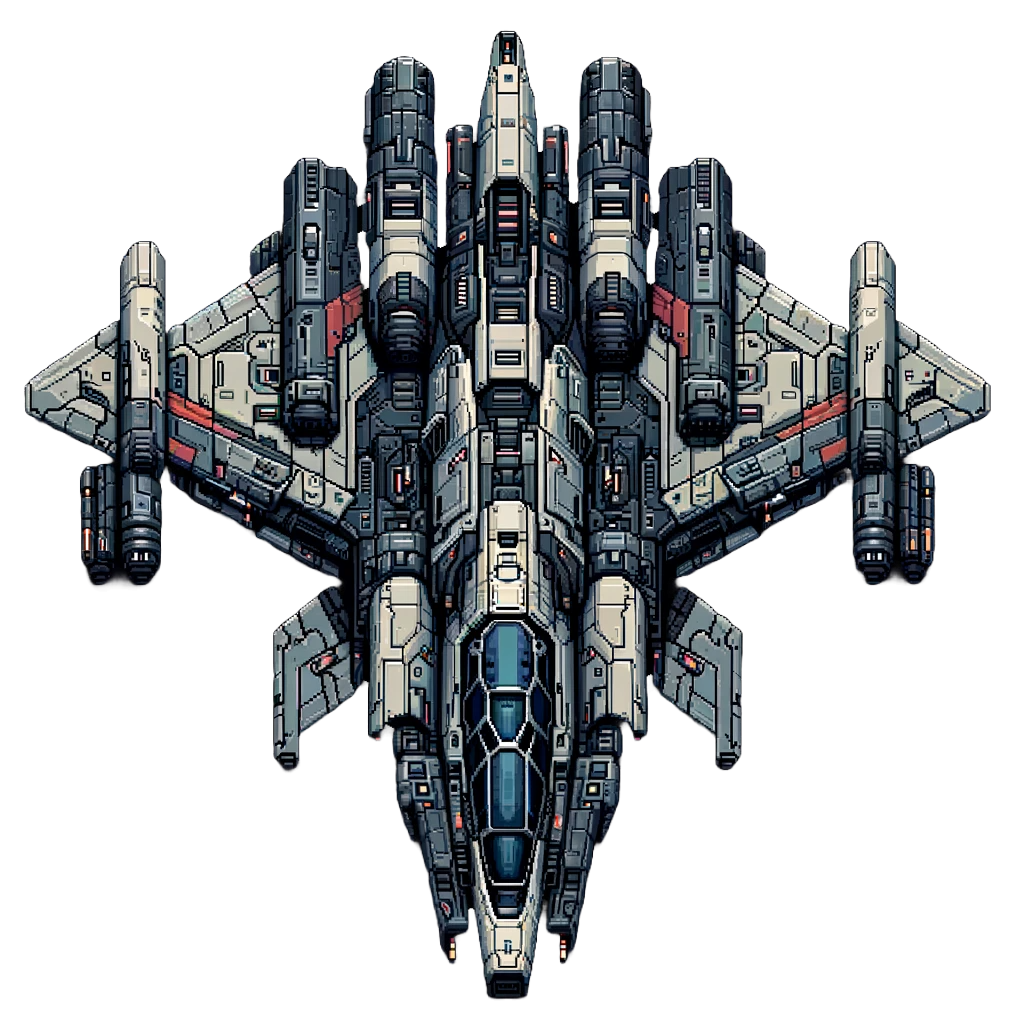
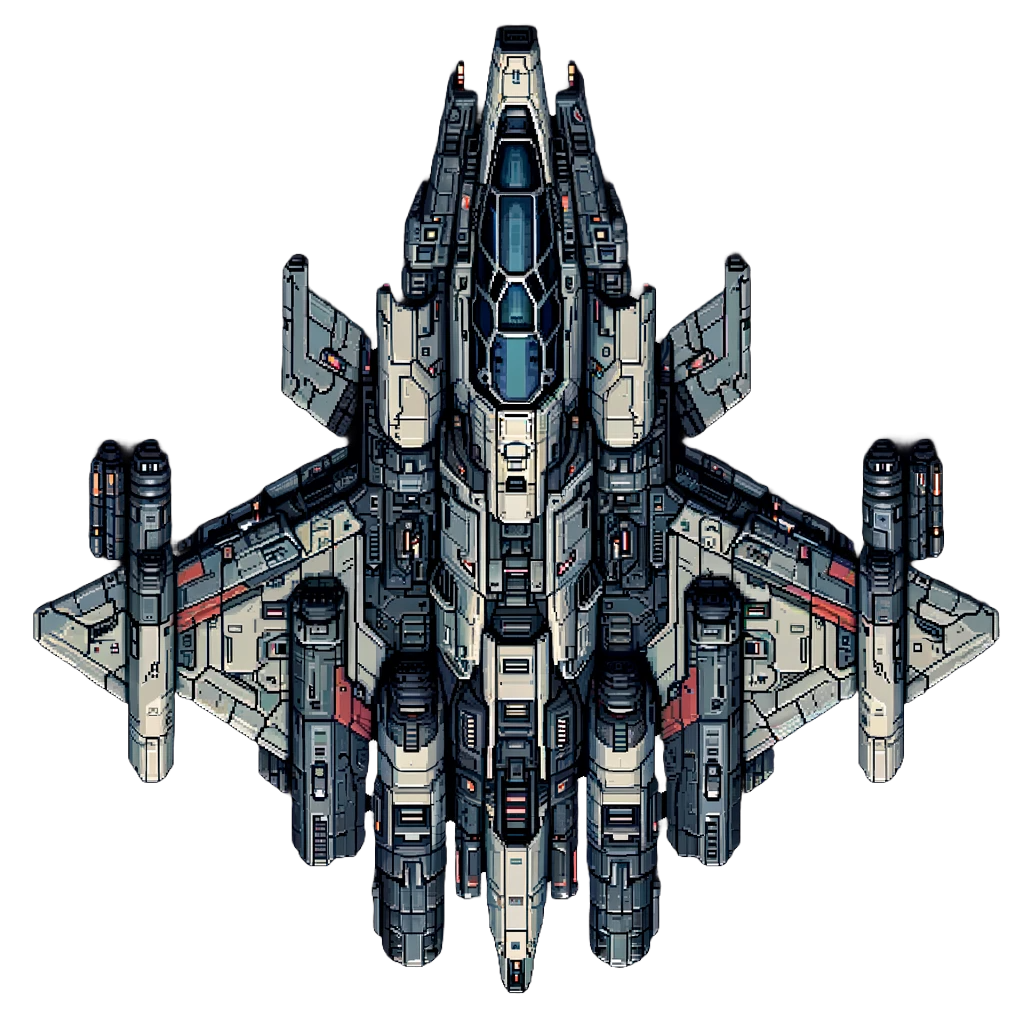
Enabled android version, added player ship orientation

diff --git a/lib/ui/solar_system.dart b/lib/ui/solar_system.dart
@@ -8,7 +8,6 @@ import 'package:solar_system/providers/space_painter_provider.dart';
 import 'package:solar_system/repository/spaceship_repository.dart';
 import 'package:solar_system/ui/painters/planet_painter.dart';
 import 'package:solar_system/ui/painters/space_painter.dart';
-import 'package:solar_system/ui/painters/spaceship_painter.dart';
 
 import '../models/spaceship_data.dart';
 
@@ -25,8 +24,6 @@ class _SolarSystemState extends State<SolarSystem> with SingleTickerProviderStat
   final networkOperations = SpaceshipNetworkOperations();
   final repository = SpaceshipRepository();
 
-  final _random = Random();
-
   late final Ticker _ticker;
 
   final TransformationController _controller = TransformationController();
@@ -36,26 +33,10 @@ class _SolarSystemState extends State<SolarSystem> with SingleTickerProviderStat
   final spaceWidth = 2000.0;
   final spaceHeight = 2000.0;
 
-  double spaceshipX = 1000.0;
-  double spaceshipY = 500.0;
-
   double _elapsed = 0.0;
 
-  final colors = <Color>[
-    const Color(0xFFff834b),
-    getRandomColor(),
-    getRandomColor(),
-    getRandomColor(),
-    getRandomColor(),
-    getRandomColor(),
-    getRandomColor(),
-    getRandomColor(),
-    getRandomColor(),
-    getRandomColor(),
-    getRandomColor(),
-    getRandomColor(),
-    getRandomColor(),
-  ];
+  SpaceshipData? playerSpaceship;
+  SpaceshipData? prevSpaceshipData;
 
   @override
   void initState() {
@@ -64,6 +45,9 @@ class _SolarSystemState extends State<SolarSystem> with SingleTickerProviderStat
     _ticker = createTicker((elapsed) {
 
       setState(() {}); // trigger a repaint
+
+      var spaceshipY = playerSpaceship?.locationY ?? 0.0;
+      var spaceshipX = playerSpaceship?.locationX ?? 0.0;
 
       if (_currentKeysPressed.isNotEmpty) {
         if (_currentKeysPressed.contains(LogicalKeyboardKey.arrowUp)) {
@@ -84,17 +68,38 @@ class _SolarSystemState extends State<SolarSystem> with SingleTickerProviderStat
       final elapsedMillis = elapsed.inMilliseconds.toDouble();
       if(elapsedMillis - _elapsed > 10) {
         _elapsed = elapsedMillis;
-        repository.updateSpaceshipLocation(spaceshipX, spaceshipY);
+        playerSpaceship = repository.updateSpaceshipLocation(spaceshipX, spaceshipY);
+
+        playerSpaceship = prevSpaceshipData != null ?
+        playerSpaceship?.copyWith(orientation: playerSpaceship?.determineOrientation(prevSpaceshipData) ?? 0.0) :
+        playerSpaceship;
+
+        prevSpaceshipData = playerSpaceship;
       }
     });
 
     _ticker.start();
 
-    repository.registerNewSpaceship();
+    repository.registerNewSpaceship()
+        .then((value) {
+          playerSpaceship = value;
+          prevSpaceshipData = value;
+        });
   }
 
   @override
   Widget build(BuildContext context) {
+
+    Widget playerSpaceshipWidget = playerSpaceship == null
+        ? Container()
+        : Positioned(
+          left: playerSpaceship!.locationX,
+          top: playerSpaceship!.locationY,
+          child: Transform.rotate(
+              angle: playerSpaceship!.orientation,
+              child: Image.asset('assets/ships/ship1.png', width: 50, height: 50)
+          ),
+        );
 
     return RawKeyboardListener(
       focusNode: _focusNode,
@@ -129,12 +134,7 @@ class _SolarSystemState extends State<SolarSystem> with SingleTickerProviderStat
             ),
           ),
 
-          // player spaceship
-          Positioned(
-            left: spaceshipX,
-            top: spaceshipY,
-            child: Image.asset('assets/ships/ship1.png', width: 50, height: 50)
-          ),
+          playerSpaceshipWidget,
 
           // other spaceships
           StreamBuilder(
@@ -151,7 +151,10 @@ class _SolarSystemState extends State<SolarSystem> with SingleTickerProviderStat
                   spaceshipWidgets.add(Positioned(
                     left: ship.locationX,
                     top: ship.locationY,
-                    child: Image.asset('assets/ships/ship${ship.shipType}.png', width: 50, height: 50)
+                    child: Transform.rotate(
+                        angle: ship.orientation,
+                        child: Image.asset('assets/ships/ship${ship.shipType}.png', width: 50, height: 50)
+                    )
                   ));
                 }
 

diff --git a/lib/repository/spaceship_repository.dart b/lib/repository/spaceship_repository.dart
@@ -18,7 +18,7 @@ class SpaceshipRepository implements ISpaceshipRepository {
 
   final spaceships = <String, SpaceshipData>{}; // <id, SpaceshipData>
 
-  Future<void> registerNewSpaceship() async {
+  Future<SpaceshipData> registerNewSpaceship() async {
 
     final randomShipType = _random.nextInt(3) + 1;
 
@@ -26,20 +26,22 @@ class SpaceshipRepository implements ISpaceshipRepository {
     playerSpaceship = SpaceshipData(
       id: id,
       name: 'Spaceship 1',
-      locationX: 200.0,
-      locationY: 200.0,
+      locationX: 500.0,
+      locationY: 1000.0,
       lastUpdated: DateTime.now().millisecondsSinceEpoch,
       shipType: randomShipType,
     );
 
-    await updateSpaceshipData(playerSpaceship);
+    await updateRemoteSpaceshipData(playerSpaceship);
 
     // populate our local map
     final snapshot = await _db.ref("spaceships").get();
     _updateLocalSpaceships(snapshot);
+
+    return playerSpaceship;
   }
 
-  Future<void> updateSpaceshipData(SpaceshipData spaceshipData) async {
+  Future<void> updateRemoteSpaceshipData(SpaceshipData spaceshipData) async {
     DatabaseReference ref = _db.ref("spaceships/${spaceshipData.id}");
     await ref.set({
       'id': spaceshipData.id,
@@ -78,26 +80,29 @@ class SpaceshipRepository implements ISpaceshipRepository {
     });
   }
 
-  void updateSpaceshipLocation(double spaceshipX, double spaceshipY) {
-    if (playerSpaceship != null) {
-      updateSpaceshipData(SpaceshipData(
-        id: playerSpaceship.id,
-        name: playerSpaceship.name,
-        locationX: spaceshipX,
-        locationY: spaceshipY,
-        lastUpdated: DateTime.now().millisecondsSinceEpoch,
-      ));
-    }
+  SpaceshipData updateSpaceshipLocation(double spaceshipX, double spaceshipY) {
+    final newData = SpaceshipData(
+      id: playerSpaceship.id,
+      name: playerSpaceship.name,
+      locationX: spaceshipX,
+      locationY: spaceshipY,
+      lastUpdated: DateTime.now().millisecondsSinceEpoch,
+    );
+
+    updateRemoteSpaceshipData(newData);
+
+    return newData;
   }
 
   void _updateLocalSpaceships(DataSnapshot snapshot) async {
     for (var doc in snapshot.children) {
-      _updateSpaceship(doc.value as Map<String, dynamic>);
+      _updateSpaceship(doc.value as Map<Object?, Object?>);
     }
   }
 
-  void _updateSpaceship(Map<String, dynamic> data) {
-    final spaceship = SpaceshipData.fromJson(data);
+  void _updateSpaceship(Map<Object?, Object?> data) {
+    final spaceshipData = data.map((key, value) => MapEntry(key.toString(), value));
+    final spaceship = SpaceshipData.fromJson(spaceshipData);
     spaceships[spaceship.id] = spaceship;
   }
 

diff --git a/lib/models/spaceship_data.dart b/lib/models/spaceship_data.dart
@@ -1,3 +1,5 @@
+import 'dart:math';
+
 class SpaceshipData {
   final String id;
   final String name;
@@ -5,6 +7,7 @@ class SpaceshipData {
   final double locationY;
   final int lastUpdated;
   final int shipType;
+  final double orientation;
 
   SpaceshipData({
     required this.id,
@@ -13,7 +16,56 @@ class SpaceshipData {
     required this.locationY,
     required this.lastUpdated,
     this.shipType = 2,
+    this.orientation = 0.0,
   });
+
+  /// Determine the orientation of the spaceship based on the previous location.
+  double determineOrientation(SpaceshipData? prev) {
+    if (prev == null) {
+      return 0.0;
+    }
+
+    if (prev.locationX == locationX && prev.locationY == locationY) {
+      return prev.orientation;
+    }
+
+    final dx = locationX - prev.locationX;
+    final dy = locationY - prev.locationY;
+
+    if (dx == 0.0) {
+      if (dy > 0.0) {
+        return pi;
+      } else {
+        return 0.0;
+      }
+    }
+
+    if (dy == 0.0) {
+      if (dx > 0.0) {
+        return pi / 2;
+      } else {
+        return 3 * pi / 2;
+      }
+    }
+
+    if (dx > 0.0 && dy > 0.0) {
+      return 3 * pi / 4;
+    }
+
+    if (dx > 0.0 && dy < 0.0) {
+      return pi / 4;
+    }
+
+    if (dx < 0.0 && dy > 0.0) {
+      return 5 * pi / 4;
+    }
+
+    if (dx < 0.0 && dy < 0.0) {
+      return 7 * pi / 4;
+    }
+
+    return 0.0;
+  }
 
   Map<String, dynamic> toMap() {
     return {
@@ -35,6 +87,18 @@ class SpaceshipData {
       locationY: (json['locationY'] as num).toDouble(),
       lastUpdated: (json['lastUpdated'] as num).toInt(),
       shipType: (json['shipType'] as num?)?.toInt() ?? 2,
+    );
+  }
+
+  SpaceshipData? copyWith({required double orientation}) {
+    return SpaceshipData(
+      id: id,
+      name: name,
+      locationX: locationX,
+      locationY: locationY,
+      lastUpdated: lastUpdated,
+      shipType: shipType,
+      orientation: orientation,
     );
   }
 }

diff --git a/lib/firebase_options.dart b/lib/firebase_options.dart
@@ -73,7 +73,7 @@ class DefaultFirebaseOptions {
     messagingSenderId: '1072675133464',
     projectId: 'fluttersolarsystem',
     storageBucket: 'fluttersolarsystem.appspot.com',
-    databaseURL: 'https://fluttersolarsystem-default-rtdb.europe-west1.firebasedatabase.app.firebaseio.com'
+    databaseURL: 'https://fluttersolarsystem-default-rtdb.europe-west1.firebasedatabase.app'
   );
 
   static const FirebaseOptions ios = FirebaseOptions(
@@ -83,6 +83,7 @@ class DefaultFirebaseOptions {
     projectId: 'fluttersolarsystem',
     storageBucket: 'fluttersolarsystem.appspot.com',
     iosBundleId: 'com.dmilicic.solarsystem.solarSystem',
+    databaseURL: 'https://fluttersolarsystem-default-rtdb.europe-west1.firebasedatabase.app'
   );
 
   static const FirebaseOptions macos = FirebaseOptions(
@@ -92,6 +93,6 @@ class DefaultFirebaseOptions {
     projectId: 'fluttersolarsystem',
     storageBucket: 'fluttersolarsystem.appspot.com',
     iosBundleId: 'com.dmilicic.solarsystem.solarSystem.RunnerTests',
-    databaseURL: 'https://fluttersolarsystem-default-rtdb.europe-west1.firebasedatabase.app.firebaseio.com'
+    databaseURL: 'https://fluttersolarsystem-default-rtdb.europe-west1.firebasedatabase.app'
   );
 }
